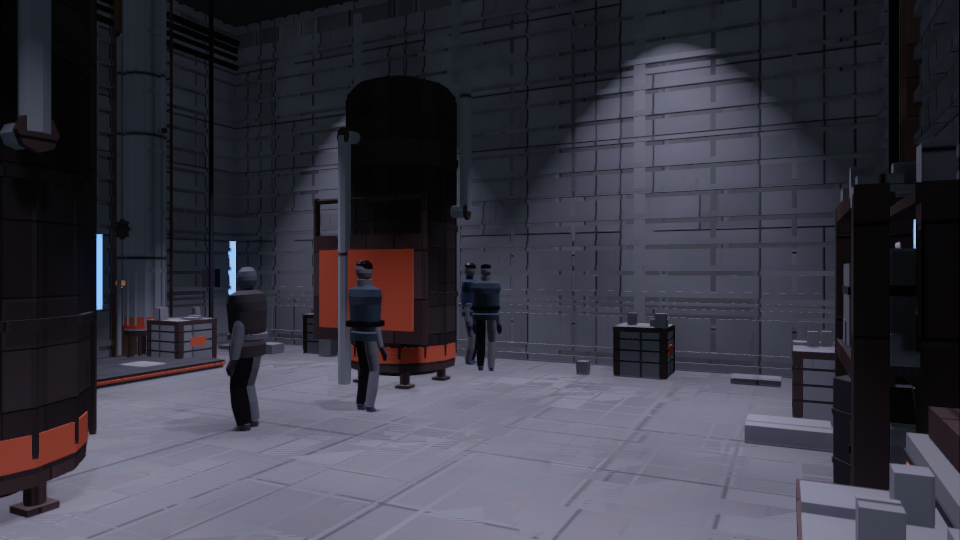
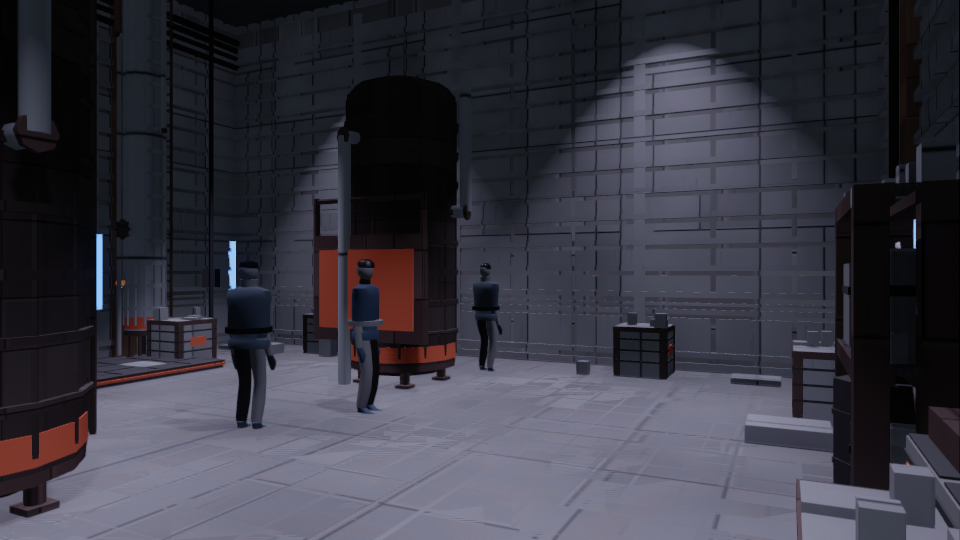
frames: re-take the 21 exposure frames against the smoothed build
4i gave the exporter crease-angle normals, which changed the shading of every
curved surface in the project, so every committed frame --gate-frames reads was
describing code that no longer existed. That is the defect 3z recorded, where
eleven of fourteen distribution failures turned out to be stale frames rather
than lighting.

--gate-frames --rerender re-took all 21 re-takeable rows from their own
recorded shots. The frames moved a long way -- engine-medlab.png by 89.7% of
its pixels, the corridor anchor by 24.7%, worship by 17.3%, max channel deltas
of 123-177.

AND THE GATE CAME BACK IDENTICAL: 14 pass, 9 fail, the same nine rows failing
on the same statistics, none of them moving by more than a couple of percent.

That is a clean negative result and worth as much as a fix. The p5-bright
failures survive re-shading 90% of a frame's pixels, so they are NOT a
shading-model artefact -- the flatness is in the light, exactly where 3z's
measurement put it (ambient owns p5; fixture energy is inert at x1.0000).
Nobody needs to wonder again whether the normals were hiding it.

One frame re-rendered byte-identical, and that is the right answer.
engine-alien-sector.png has 17,990 distinct colours, so it is not a black frame
hiding the difference; --dihedral says that room is 33.7% coplanar, 66.1% right
angles, 0.23% curve tessellation and zero in the trough. It is built entirely
from flat panels and square corners, so there is nothing in it to smooth. The
[…]

diff --git a/STATE.md b/STATE.md
@@ -1,6 +1,88 @@
 # Project State
 
-**Last updated:** 2026-08-02 · **Session 4i** — **every curved surface in the project was flat-shaded, and the crease angle is measured off the station** · **4h** — **IT IS PLAYABLE: press Play and you are standing in Blue Sector** · **4g** — **the Babcom terminal is a built device, and it shipped a logged mistake once before the log caught it** · **4f** — a per-token verb override · **4e** — **the naming-mismatch class is CLOSED: built-but-misnamed 26 → 0, resolving 302/357** · **4d** — **the bespoke rooms' interactables were never unbuilt, they were unnamed: 259/357 → 284/357** · **4c** — **the station is INTERACTABLE, the port is on a wall, and the 24-minute suites were one bad cache key** · **4b** — a police force, friction in metres, the plated shell, the fitting-reach fix
+**Last updated:** 2026-08-02 · **Session 4j** — **the 21 exposure frames describe the code again, and the verdict did not move** · **4i** — **every curved surface in the project was flat-shaded, and the crease angle is measured off the station** · **4h** — **IT IS PLAYABLE: press Play and you are standing in Blue Sector** · **4g** — **the Babcom terminal is a built device, and it shipped a logged mistake once before the log caught it** · **4f** — a per-token verb override · **4e** — **the naming-mismatch class is CLOSED: built-but-misnamed 26 → 0, resolving 302/357** · **4d** — **the bespoke rooms' interactables were never unbuilt, they were unnamed: 259/357 → 284/357** · **4c** — **the station is INTERACTABLE, the port is on a wall, and the 24-minute suites were one bad cache key** · **4b** — a police force, friction in metres, the plated shell, the fitting-reach fix
+
+## Session 4j — THE 21 EXPOSURE FRAMES NOW DESCRIBE THE CODE AGAIN, AND THE VERDICT DID NOT MOVE
+
+### 1. What was stale and why
+
+4i gave the glTF exporter crease-angle normals, which changed the shading of every curved surface
+in the project. **Every committed frame `--gate-frames` reads was rendered before that**, so the
+layer-4b gate was measuring code that no longer existed — the exact defect 3z recorded, where
+eleven of fourteen distribution failures turned out to be stale frames rather than lighting.
+
+`--gate-frames --rerender` re-took all 21 re-takeable rows from their own recorded shots. 20 files
+changed on disk; the frames moved a long way:
+
+| frame | pixels changed | max channel delta |
+|---|---|---|
+| `engine-medlab.png` | **89.7%** | 177 |
+| `engine-corridor.png` (the anchor) | 24.7% | 27 |
+| `engine-4a-worship.png` | 17.3% | 123 |
+
+### 2. AND THE GATE CAME BACK IDENTICAL. 14 pass, 9 fail, THE SAME NINE
+
+Not "about the same" — the same rows failing on the same statistics:
+
+| row | before | after |
+|---|---|---|
+| medical p5 | ×1.46 | ×1.45 |
+| office p5 | ×1.39 | ×1.39 |
+| research p5 | ×1.79 | ×1.78 |
+| worship p5 / p5·p95 | ×1.46 / ×3.53 | ×1.41 / ×3.92 |
+| zocalo p5 | ×1.56 | ×1.57 |
+| bespoke hospitality p5 | ×1.88 | ×1.88 |
+| industrial p99 | ×0.31 | ×0.31 |
+| alien_sector crushed | ×42.70 | ×42.70 |
+| plant p5/p95 | ×27.21 | ×27.34 |
+
+**This is a clean negative result and it is worth as much as a fix.** The p5-bright failures survive
+re-shading 90% of a frame's pixels, so they are **not a shading-model artefact** — the flatness is
+in the light, exactly where 3z's measurement said it was (ambient owns p5: 1.30 → 2.60 moves it
+×2.35; fixture energy is inert at ×1.0000). Nobody needs to wonder again whether the normals were
+hiding it.
+
+It also re-establishes the frames as evidence: they now describe the build a player is standing in.
+
+### 3. ONE FRAME RE-RENDERED BYTE-IDENTICAL, AND THAT IS THE RIGHT ANSWER
+
+`docs/engine-alien-sector.png` came back bit-for-bit the same — a 640×360 frame with 17,990
+distinct colours, so not a black frame hiding the difference. `--dihedral` on that room says why:
+
+```
+17,400 shared edges
+  coplanar             0-  5 deg   5,856   33.66%
+  curve tessellation   6- 45 deg      40    0.23%
+  THE TROUGH          46- 84 deg       0    0.00%
+  real corners        85-180 deg  11,504   66.11%
+```
+
+**It is built entirely from flat panels and square corners.** There is nothing in it to smooth, so
+smoothing it is a no-op. The change does exactly nothing where nothing is curved and 89.7% of the
+pixels where something is, which is the strongest statement of correctness available here.
+
+### 4. WHAT IS STILL STALE, STATED RATHER THAN LEFT
+
+- **The two `DECK` rows record no shot** (`deck_corridor`, `deck_door`) and could not be re-taken.
+  Their frames are still flat-shaded. They are the only stale rows left, and the fix is to give
+  them a shot in `EXPOSURE_FRAMES` the way every other row has one.
+- **`docs/aaa-scorecard.json` is untouched.** Its craft scores were taken from frames that are now
+  regenerated, but re-scoring is a judgement exercise and the file says of itself that it is a
+  *"SEED, NOT A REVIEW … provisional until a reviewer other than the builder has scored it."*
+  Re-scoring it from this session's frames would make that worse, not better.
+
+### 5. A CORRECTION TO 4i's NEXT LIST
+
+"The heads are bare" was too broad. The **baked cast** has hair — visible in `engine-medlab.png`,
+two figures with dark hair and uniforms. It is the **instanced crowd LOD bodies** that are
+featureless: `populace.station_crowd_library` builds them at LOD 2/4/8 and the near rung is what a
+player sees a metre away.
+
+### 6. NEXT
+
+- Give the two `DECK` rows a recorded shot so `--rerender` can reach them.
+- The crowd's near LOD has no face and no hair; the baked cast does.
+- `tools/play.sh` still builds one cluster.
 
 ## Session 4i — EVERY CURVED SURFACE IN THE PROJECT WAS FLAT-SHADED
 
